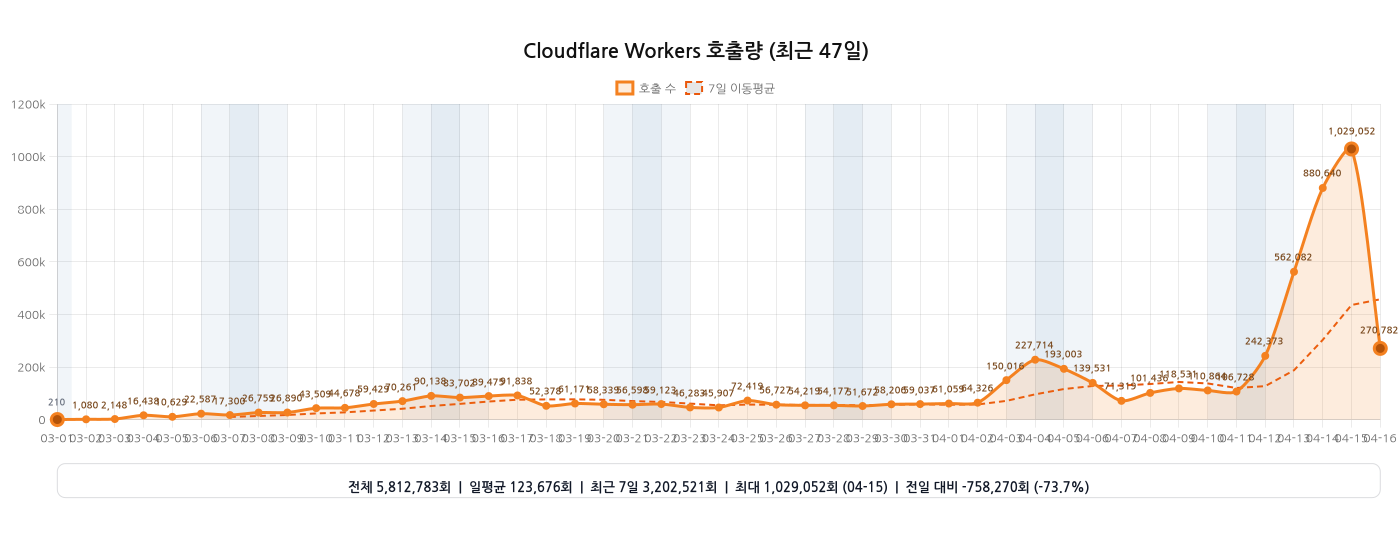
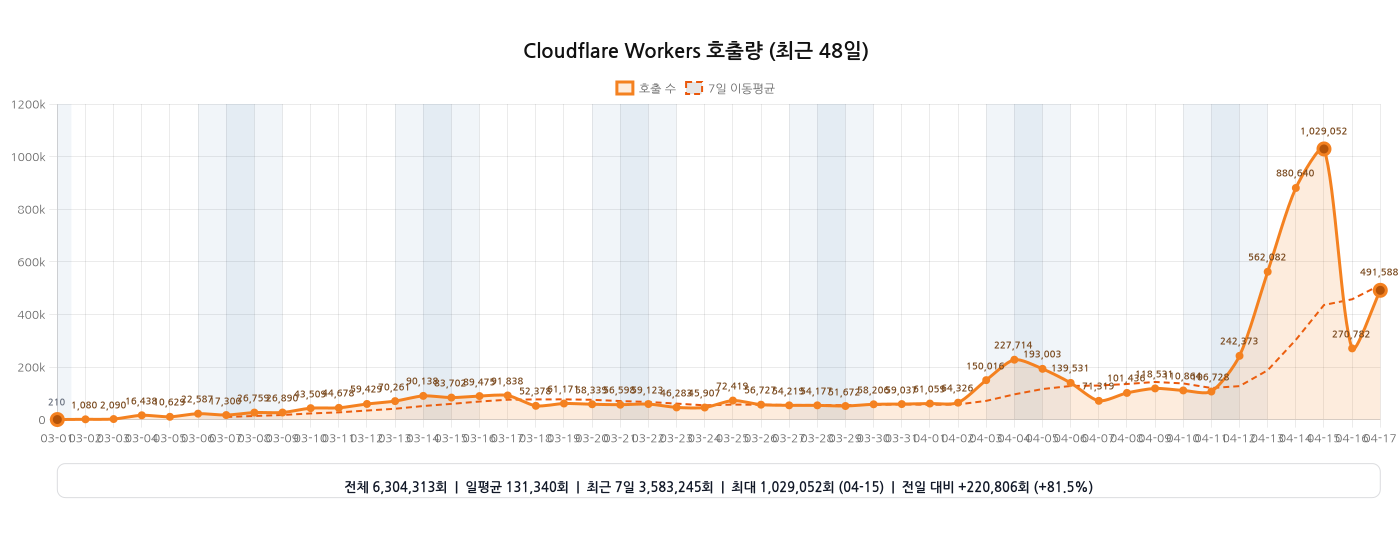
chore: 워커 호출량 그래프 자동 갱신

Changed region(s): [[0.0614, 0.2125, 1.0, 0.7893], [0.2457, 0.85, 0.7986, 0.8804]]

diff --git a/README.md b/README.md
@@ -18,11 +18,11 @@
 [![Coverage](https://github.com/hmmhmmhm/daiso-mcp/actions/workflows/coverage.yml/badge.svg?branch=main)](https://github.com/hmmhmmhm/daiso-mcp/actions/workflows/coverage.yml)
 
 <!-- WORKERS_INVOCATIONS_CHART:START -->
-<h3>Cloudflare Workers 호출량 (2026-03-01 ~ 2026-04-16, 47일)</h3>
+<h3>Cloudflare Workers 호출량 (2026-03-01 ~ 2026-04-17, 48일)</h3>
 
-<img src="./assets/analytics/workers-invocations.png?v=2026-04-16T15:56:56.222Z" alt="Cloudflare Workers 호출량 그래프 (2026-03-01 ~ 2026-04-16)" width="100%">
+<img src="./assets/analytics/workers-invocations.png?v=2026-04-17T15:43:35.539Z" alt="Cloudflare Workers 호출량 그래프 (2026-03-01 ~ 2026-04-17)" width="100%">
 
-<sub>기준 워커: <code>daiso-mcp</code> · 마지막 갱신: 2026-04-17 00:56 KST</sub>
+<sub>기준 워커: <code>daiso-mcp</code> · 마지막 갱신: 2026-04-18 00:43 KST</sub>
 
 <!-- WORKERS_INVOCATIONS_CHART:END -->
 
